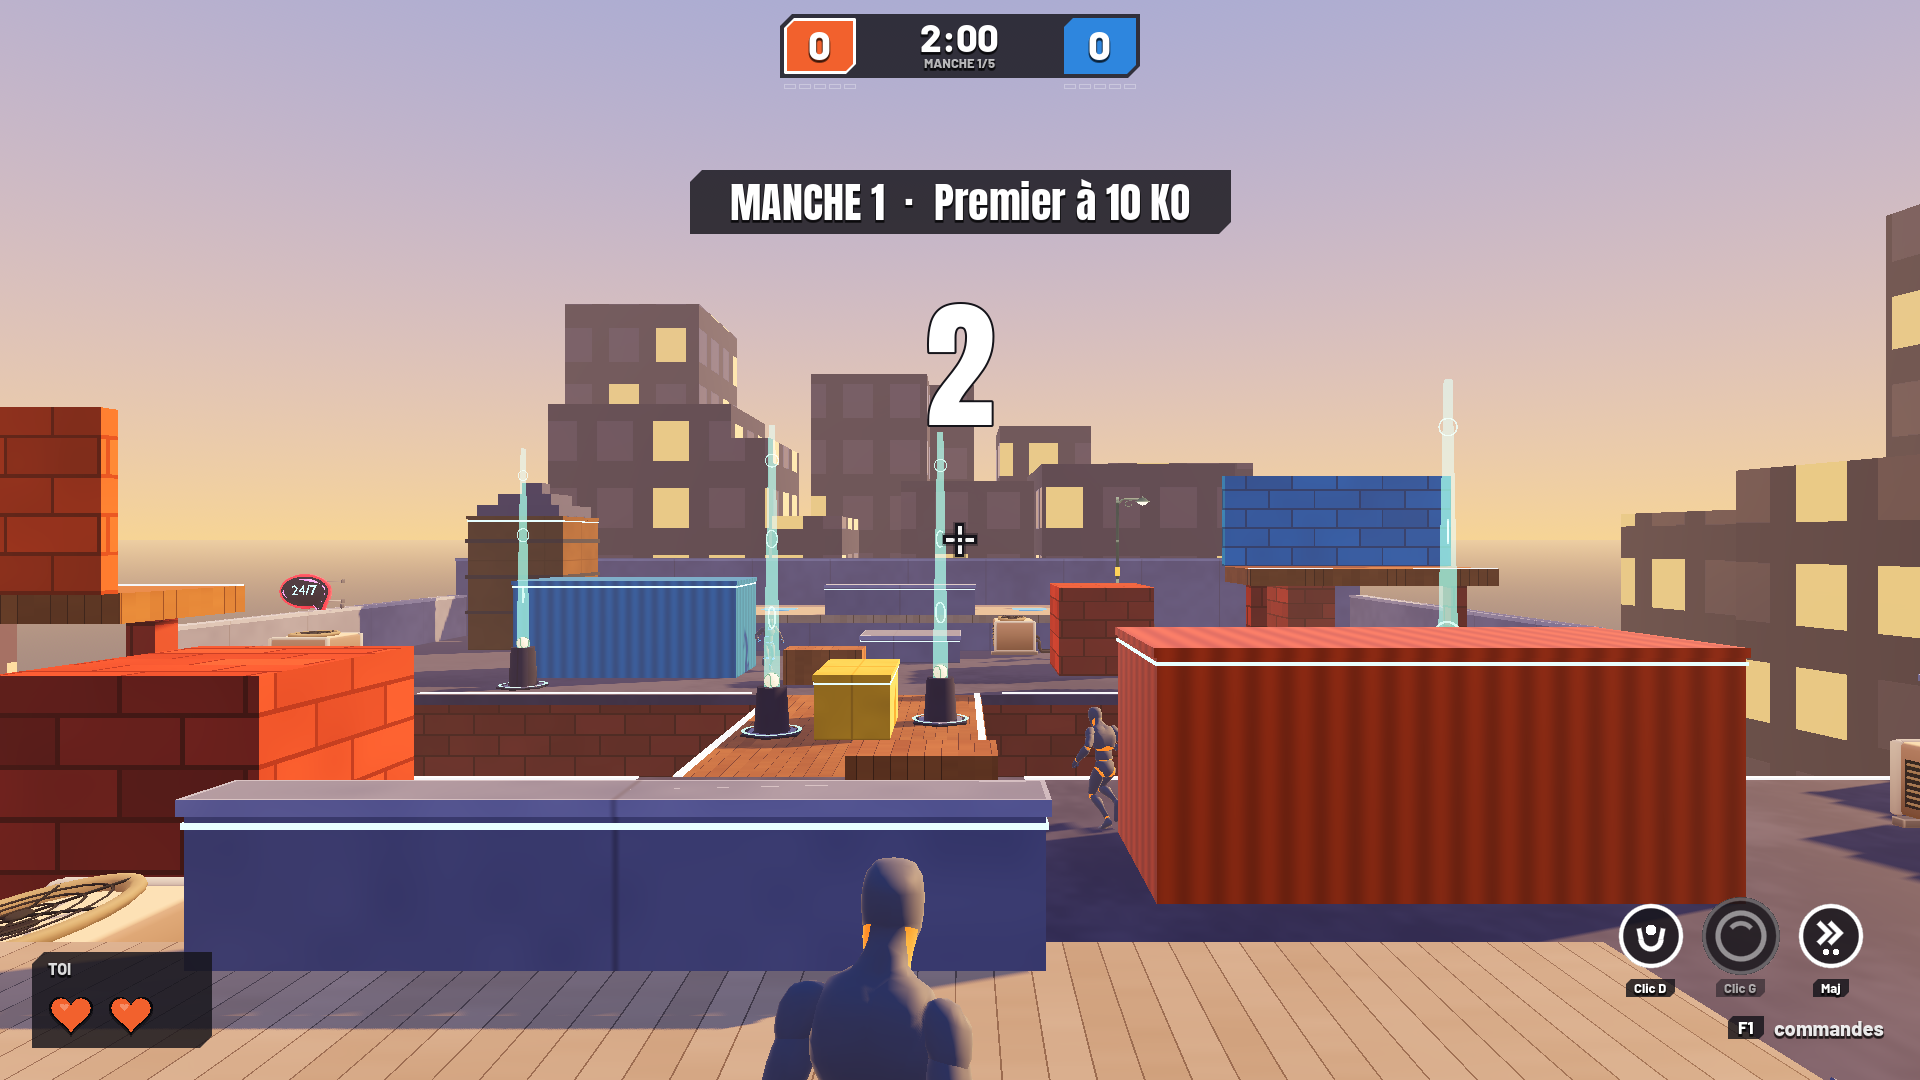
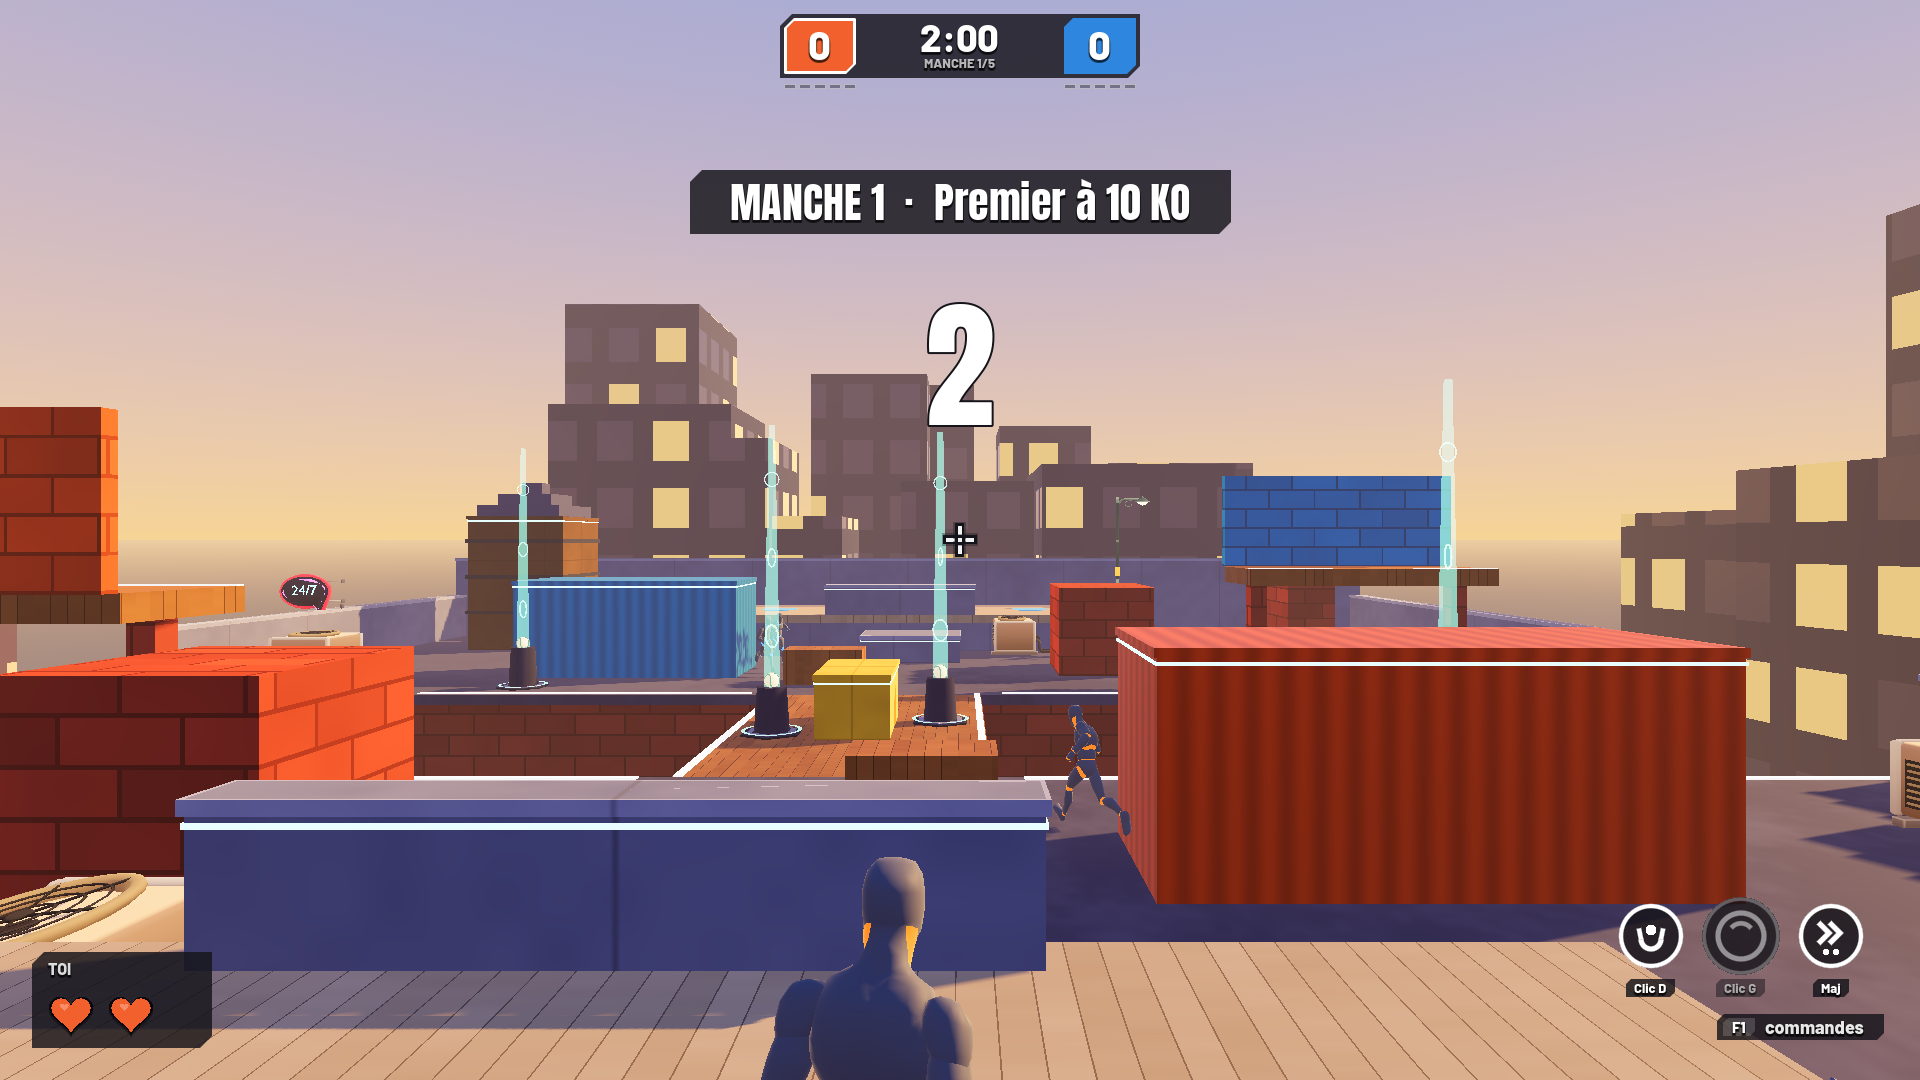
HUD : finitions après la revue (8/10)
- Rappel « F1 commandes » sur une seule plaque d'encre.
- Manches à jouer : encre légère et contour blanc à 50 % (lisibles sur ciel clair).
- Arc de dégât souligné d'encre (se détache des briques rouges).
- Fil des KO : mes lignes marquées d'un liseré de mon équipe à gauche.
- Noms au-dessus des têtes à environ 20 px en 1080, contour plus épais.

Claude-Session: https://claude.ai/code/session_01JqDGHfY1Ly5jn7p42vhJBj

diff --git a/scripts/Gameplay/DesktopHud.cs b/scripts/Gameplay/DesktopHud.cs
@@ -223,7 +223,7 @@ public partial class DesktopHud : CanvasLayer
         return p;
     }
 
-    /// <summary>Manche gagnée (barre pleine à la couleur de l'équipe) ou à jouer (contour blanc translucide, intérieur vide). Le dessin suit la taille du contrôle.</summary>
+    /// <summary>Manche gagnée (barre pleine à la couleur de l'équipe) ou à jouer (encre légère, contour blanc à 50 %). Le dessin suit la taille du contrôle.</summary>
     sealed partial class Pip : Control
     {
         public Color Color;
@@ -237,7 +237,8 @@ public partial class DesktopHud : CanvasLayer
                 DrawRect(new Rect2(Vector2.Zero, Size), Color);
                 return;
             }
-            DrawRect(new Rect2(Vector2.Zero, Size).Grow(-0.5f), new Color(1, 1, 1, 0.3f), false, 1f);
+            DrawRect(new Rect2(Vector2.Zero, Size), new Color(UiKit.Navy, 0.4f));
+            DrawRect(new Rect2(Vector2.Zero, Size).Grow(-0.5f), new Color(1, 1, 1, 0.5f), false, 1f);
         }
     }
 
@@ -973,9 +974,9 @@ public partial class DesktopHud : CanvasLayer
         if (victim == View.LocalId) LocalKoBanner(by);
         bool mine = by == View.LocalId || victim == View.LocalId;
         var panel = new PanelContainer { MouseFilter = Control.MouseFilterEnum.Ignore };
-        // Ligne fine et translucide ; seules mes lignes (je tire ou je tombe) portent un filet blanc à droite.
+        // Ligne fine sur plaque d'encre ; seules mes lignes (je tire ou je tombe) sont plus opaques, avec un liseré de mon équipe.
         var box = PlateBox(new Color(UiKit.Navy, mine ? 0.88f : 0.65f), 14, 2, 8);
-        box.BorderColor = Colors.White; box.BorderWidthRight = mine ? 4 : 0;
+        box.BorderColor = Palette.Team(View.LocalTeam); box.BorderWidthLeft = mine ? 4 : 0;   // mes lignes : liseré de mon équipe à gauche
         panel.AddThemeStyleboxOverride("panel", box);
         var line = new HBoxContainer { MouseFilter = Control.MouseFilterEnum.Ignore };
         line.AddThemeConstantOverride("separation", 10);
@@ -1049,7 +1050,7 @@ public partial class DesktopHud : CanvasLayer
             var c = s / 2;
             float midA = Mathf.Atan2(From.Y, From.X), half = 0.38f;
             float a1 = Mathf.Min(1f, e * 1.2f);
-            DrawArc(c, ArcRadius, midA - half, midA + half, 32, new Color(UiKit.Ink, 0.35f * a1), 12f, true);
+            DrawArc(c, ArcRadius, midA - half, midA + half, 32, new Color(UiKit.Ink, 0.85f * a1), 12f, true);
             DrawArc(c, ArcRadius, midA - half, midA + half, 32, new Color(Hot, 0.7f * a1 + 0.3f * a1 * a1), 8f, true);
             // Pointe au milieu de l'arc, tournée vers l'extérieur (vers le tireur).
             var d = new Vector2(Mathf.Cos(midA), Mathf.Sin(midA));
@@ -1903,16 +1904,23 @@ public partial class DesktopHud : CanvasLayer
         }
 
         // Rappel discret des premières secondes : « [F1] commandes ».
-        var hint = new HBoxContainer { MouseFilter = Control.MouseFilterEnum.Ignore, Alignment = BoxContainer.AlignmentMode.End };
-        hint.AddThemeConstantOverride("separation", 10);
+        // Une seule plaque d'encre de 28 px : la touche (plaque plus claire) puis le mot.
+        var hint = new PanelContainer { MouseFilter = Control.MouseFilterEnum.Ignore };
+        hint.AddThemeStyleboxOverride("panel", PlateBox(PlateInk, 6, 2, 7));
+        var hintRow = new HBoxContainer { MouseFilter = Control.MouseFilterEnum.Ignore };
+        hintRow.AddThemeConstantOverride("separation", 10);
+        hint.AddChild(hintRow);
         hint.SetAnchorsPreset(Control.LayoutPreset.BottomRight);
         hint.GrowHorizontal = Control.GrowDirection.Begin;
         hint.GrowVertical = Control.GrowDirection.Begin;
         hint.OffsetRight = -36; hint.OffsetBottom = -40; hint.OffsetLeft = -36; hint.OffsetTop = -40;
-        hint.AddChild(HudKey(InputSetup.KeyName("help"), 17));
-        var words = Soft(UiKit.Text("commandes", 20, new Color(1, 1, 1, 0.9f), 0), UiKit.Heavy);
+        var hintKey = HudKey(InputSetup.KeyName("help"), 15);
+        hintKey.AddThemeStyleboxOverride("normal", PlateBox(new Color(1, 1, 1, 0.16f), 9, 0, 5));
+        hintRow.AddChild(hintKey);
+        var words = Soft(UiKit.Text("commandes", 18, new Color(1, 1, 1, 0.9f), 0), UiKit.Heavy);
         words.VerticalAlignment = VerticalAlignment.Center;
-        hint.AddChild(words);
+        hintRow.AddChild(words);
+        hintRow.AddChild(new Control { CustomMinimumSize = new Vector2(4, 0), MouseFilter = Control.MouseFilterEnum.Ignore });
         helpLayer.AddChild(hint);
         helpHint = hint;
     }

diff --git a/scripts/Visual/PlayerTag.cs b/scripts/Visual/PlayerTag.cs
@@ -68,7 +68,7 @@ public partial class PlayerTag : Node3D
     }
 
     /// <summary>Hauteur du nom en pixels d'une image de 720 lignes (cœurs : HeartsScale fois plus).</summary>
-    const float NamePx = 12f;
+    const float NamePx = 13f;
     const float FarFade = 25f, FarName = 40f;
     /// <summary>Cœurs par rapport au nom : le glyphe ♥ est petit dans sa case, d'où 1,6 em.</summary>
     const float HeartsScale = 1.6f;
@@ -85,7 +85,7 @@ public partial class PlayerTag : Node3D
         var ink = UI.UiKit.Ink;
         nameLabel = new Label3D
         {
-            Font = font, FontSize = 64, PixelSize = 1f / 64f, OutlineSize = 16, Modulate = color, OutlineModulate = ink,
+            Font = font, FontSize = 64, PixelSize = 1f / 64f, OutlineSize = 20, Modulate = color, OutlineModulate = ink,
             VerticalAlignment = VerticalAlignment.Bottom, Position = new Vector3(0, NameLift, 0), RenderPriority = 1, OutlineRenderPriority = 0,
         };
         // Cœurs : police par défaut (les glyphes ♥ ♡ n'existent pas dans Barlow).
@@ -126,7 +126,7 @@ public partial class PlayerTag : Node3D
             throughWalls = walls;
             nameLabel.NoDepthTest = hearts.NoDepthTest = walls;
         }
-        // Taille : nom 12 px, cœurs à 1,6 em (image 720 lignes ; nom de 18 px en 1080), discrets comme dans les jeux d'action en ligne ;
+        // Taille : nom 13 px, cœurs à 1,6 em (image 720 lignes ; nom d'environ 20 px en 1080), discrets comme dans les jeux d'action en ligne ;
         // coéquipiers aux trois quarts et plus pâles ; au-delà de 25 m tout pâlit, au-delà de 40 m le nom disparaît (cœurs seuls).
         float k = mate ? 0.75f : 1f;
         float alpha = (mate ? 0.7f : 1f) * (dist > FarFade ? 0.6f : 1f);
